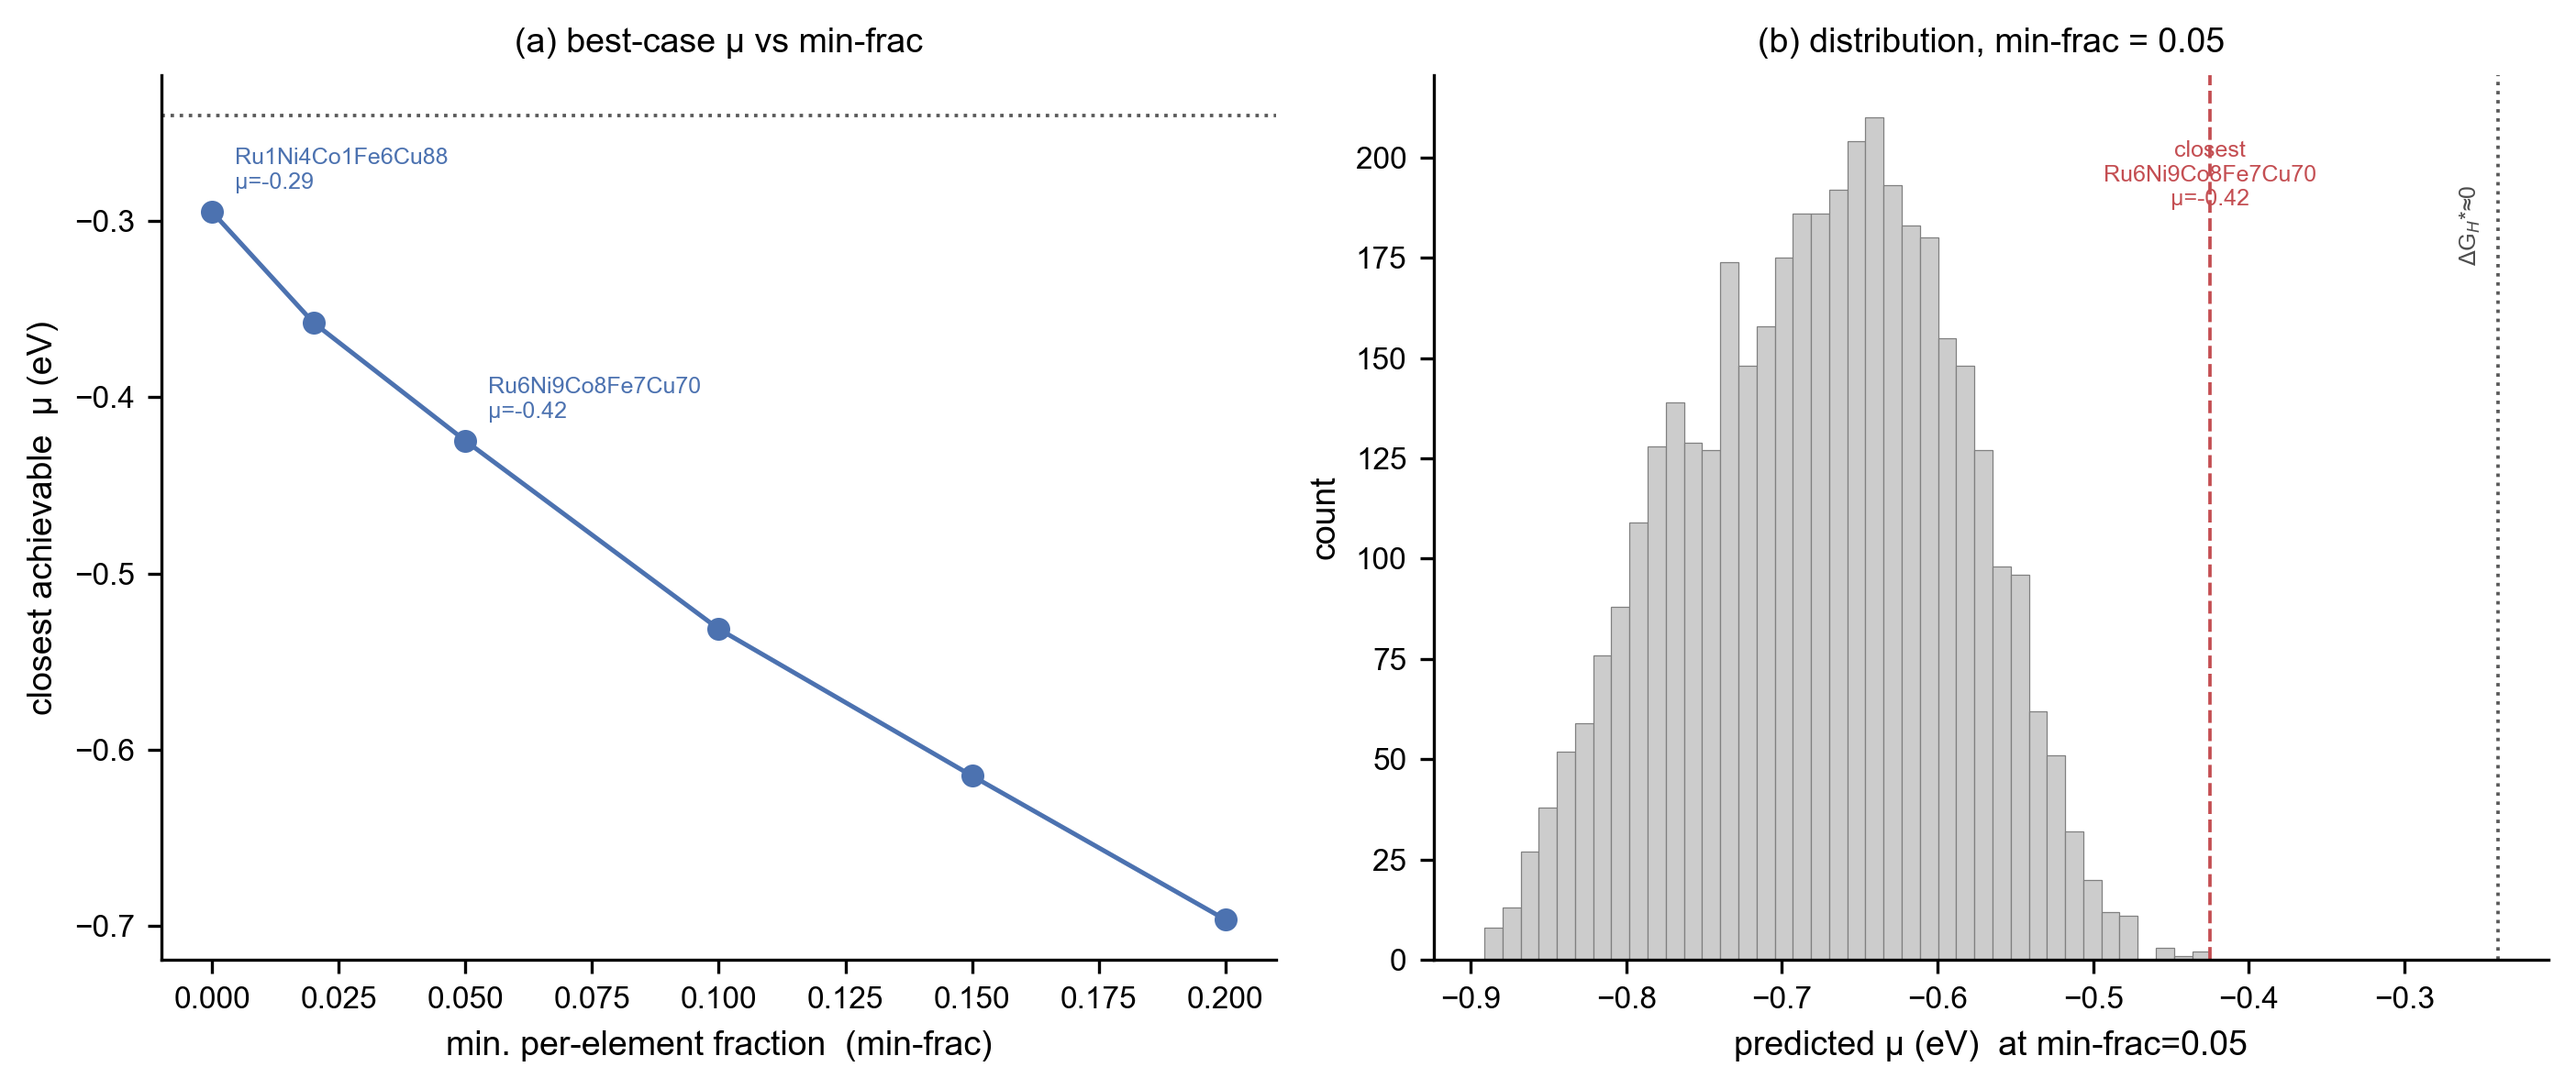
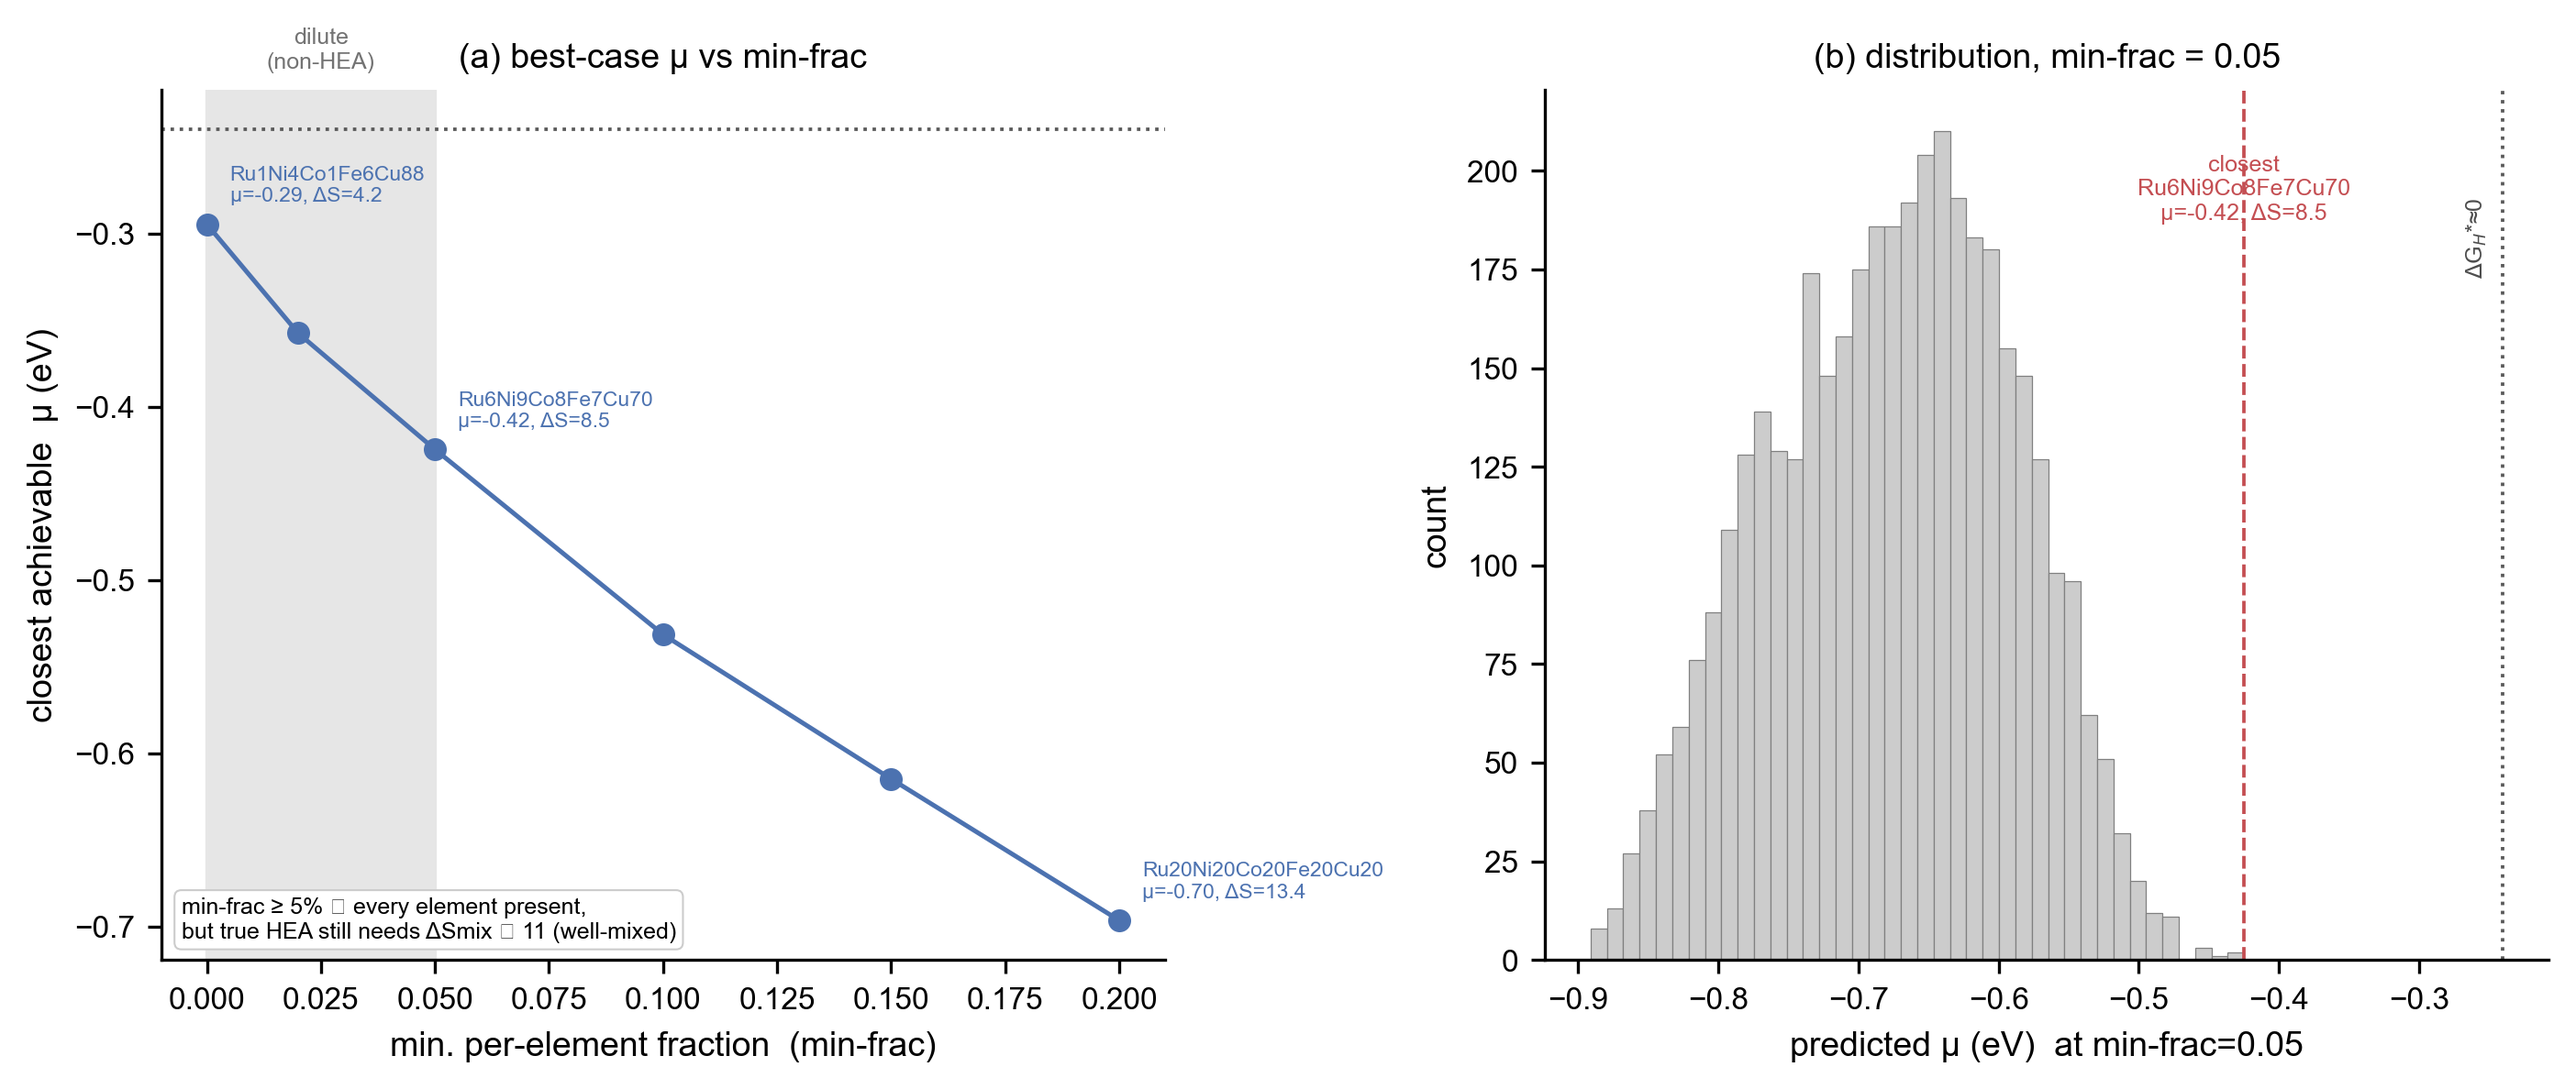
Mark non-HEA region in Fig 11; annotate ΔSmix (entropy) of closest comps
- reachability_figure(): shade min-frac<0.05 as dilute/non-HEA, annotate
  ΔSmix on key points, note that min-frac≥5% still yields medium-entropy
  (ΔSmix≈8.5) not high-entropy
- README: clarify the Cu-rich best-case is medium-entropy, not a true HEA

diff --git a/hea_gp_active_learning.py b/hea_gp_active_learning.py
@@ -151,8 +151,16 @@ def reachability_figure(gp):
         if mf == MIN_FRAC:               # 记住 min-frac=MIN_FRAC 的整批采样, 供 (b) 直方图
             mu_minfrac, i_minfrac = mu, i
 
-    comp0 = close_comp[min_fracs.index(MIN_FRAC)]
+    idx0 = min_fracs.index(MIN_FRAC)
+    comp0 = close_comp[idx0]
     mu0, i0 = mu_minfrac, i_minfrac
+
+    # 每个"最近成分"的混合熵 ΔSmix (J/mol·K)。min-frac≥5% 只保证每元素都存在,
+    # 不保证高熵: 热中性方向是富 Cu(=低熵), 真高熵需 ΔSmix≳11(近等摩尔)。
+    def _dS(label):
+        x = parse_comp(label)
+        return -8.314 * sum(v * np.log(v) for v in x.values() if v > 0)
+    close_dS = [_dS(c) for c in close_comp]
 
     plt.rcParams.update({
         "font.family": "sans-serif",
@@ -165,25 +173,32 @@ def reachability_figure(gp):
     })
     fig, (ax1, ax2) = plt.subplots(1, 2, figsize=(9.4, 4.0))
 
-    # (a) 最接近热中性的 μ vs min-frac
-    ax1.plot(min_fracs, close_mu, "o-", color="#4C72B0", lw=1.2, ms=5)
+    # (a) 最接近热中性的 μ vs min-frac; 阴影 min-frac<0.05 = 稀合金(非 HEA)
+    ax1.axvspan(0.0, MIN_FRAC, color="0.90", zorder=0)
+    ax1.text(MIN_FRAC / 2, 1.02, "dilute\n(non-HEA)", transform=ax1.get_xaxis_transform(),
+             fontsize=6, color="0.45", va="bottom", ha="center")
+    ax1.plot(min_fracs, close_mu, "o-", color="#4C72B0", lw=1.2, ms=5, zorder=3)
     ax1.axhline(MU_OPT, color="0.35", ls=":", lw=0.9)
     ax1.set_xlabel("min. per-element fraction  (min-frac)")
     ax1.set_ylabel("closest achievable  μ (eV)")
     ax1.set_title("(a) best-case μ vs min-frac")
-    for mf, mu, c in [(0.0, close_mu[0], close_comp[0]),
-                      (MIN_FRAC, mu0[i0], comp0)]:
-        ax1.annotate(f"{c}\nμ={mu:.2f}", (mf, mu), xytext=(6, 6),
-                     textcoords="offset points", fontsize=6, color="#4C72B0")
+    for k in (0, idx0, -1):   # 稀合金端点 / 实际约束 min-frac=0.05 / 等摩尔
+        ax1.annotate(f"{close_comp[k]}\nμ={close_mu[k]:.2f}, ΔS={close_dS[k]:.1f}",
+                     (min_fracs[k], close_mu[k]), xytext=(6, 6),
+                     textcoords="offset points", fontsize=5.5, color="#4C72B0")
+    ax1.text(0.02, 0.02, "min-frac ≥ 5% ⇒ every element present,\n"
+             "but true HEA still needs ΔSmix ≳ 11 (well-mixed)",
+             transform=ax1.transAxes, fontsize=6, va="bottom",
+             bbox=dict(boxstyle="round,pad=0.3", fc="white", ec="0.8", lw=0.5))
 
     # (b) min-frac=0.05 的 μ 分布
     n, _bins, _patches = ax2.hist(mu0, bins=40, color="0.8", edgecolor="0.5", lw=0.3)
     ymax = float(n.max())
     ax2.axvline(MU_OPT, color="0.35", ls=":", lw=0.9)
     ax2.axvline(mu0[i0], color="#C44E52", ls="--", lw=0.9)
-    ax2.annotate(f"closest\n{comp0}\nμ={mu0[i0]:.2f}", (mu0[i0], ymax),
-                 xytext=(0, -6), textcoords="offset points", fontsize=6,
-                 color="#C44E52", ha="center", va="top")
+    ax2.annotate(f"closest\n{comp0}\nμ={mu0[i0]:.2f}, ΔS={close_dS[idx0]:.1f}",
+                 (mu0[i0], ymax), xytext=(0, -6), textcoords="offset points",
+                 fontsize=6, color="#C44E52", ha="center", va="top")
     ax2.text(MU_OPT - 0.01, ymax * 0.92, "ΔG$_H$*≈0", fontsize=6, color="0.3",
              rotation=90, va="top", ha="right")
     ax2.set_xlabel("predicted μ (eV)  at min-frac=0.05")
@@ -197,7 +212,10 @@ def reachability_figure(gp):
     plt.close(fig)
     print(f"图已保存 -> {out_png}")
     print(f"[Fig 11] min-frac={MIN_FRAC} 约束下最接近热中性的成分: {comp0} "
-          f"(μ={mu0[i0]:.3f} eV, 距 μ_opt 还差 {abs(mu0[i0] - MU_OPT):.3f} eV)")
+          f"(μ={mu0[i0]:.3f} eV, ΔS={close_dS[idx0]:.1f} J/mol·K, "
+          f"距 μ_opt 还差 {abs(mu0[i0] - MU_OPT):.3f} eV)")
+    print(f"[Fig 11] 注: 该成分 ΔS={close_dS[idx0]:.1f} < 11 J/mol·K, 属中熵合金而非高熵; "
+          f"真高熵(ΔSmix≳11)需 min-frac≳0.10, 代价是 μ 更负、离热中性更远。")
 
 
 def main():

diff --git a/README.md b/README.md
@@ -29,7 +29,7 @@ The H adsorption energy `E_ads` is a key *binding-strength* descriptor behind ca
 - σ = std of `E_ads`: random forest reaches **R² = 0.68** (after filtering diverged relaxations).
 - **Configurational disorder homogenizes the surface**: pure metals have σ ≈ 0.28 eV, while five-component HEAs drop to σ ≈ 0.12 eV — a non-intuitive, publishable finding.
 - Valence electron concentration (VEC) is the strongest single-element descriptor; the strongest H binding (most negative μ) is Ru-rich, while the HER optimum (`ΔG_H* ≈ 0`, `E_ads ≈ −0.2 eV`) sits near Co/Ni-rich compositions.
-- **HER reachability**: under the ≥5%-per-element constraint, even the best-case (Cu-rich) composition reaches only μ ≈ −0.4 eV — still ~0.2 eV short of the thermoneutral optimum, because even 5% Ru/Fe over-binds H. Only relaxing toward pure Cu approaches thermoneutral (Fig 11).
+- **HER reachability**: under the ≥5%-per-element constraint, the best-case (Cu-rich, ΔSmix ≈ 8.5 J/(K·mol) — *medium-entropy*, not yet a true HEA) composition reaches only μ ≈ −0.4 eV, still ~0.2 eV short of the thermoneutral optimum. A true high-entropy alloy (ΔSmix ≳ 11) can only reach μ ≈ −0.5 eV — thermoneutral and high-entropy are in direct tension (Fig 11).
 - **Synthesizability**: all 20 quinary compositions pass δ ≤ 6.6%, Ω ≥ 1.1, and VEC ≥ 8 (FCC); 18/20 also pass 11 ≤ ΔSmix ≤ 19.5 J/(K·mol). The two failures are the most skewed compositions (e.g. `Ru66Ni14Co7Fe7Cu6`, ΔSmix = 9.1) — a binding-strength–formability trade-off: the strongest-binding (Ru-rich) compositions are also the least entropically stabilised.
 
 ## Repository layout
